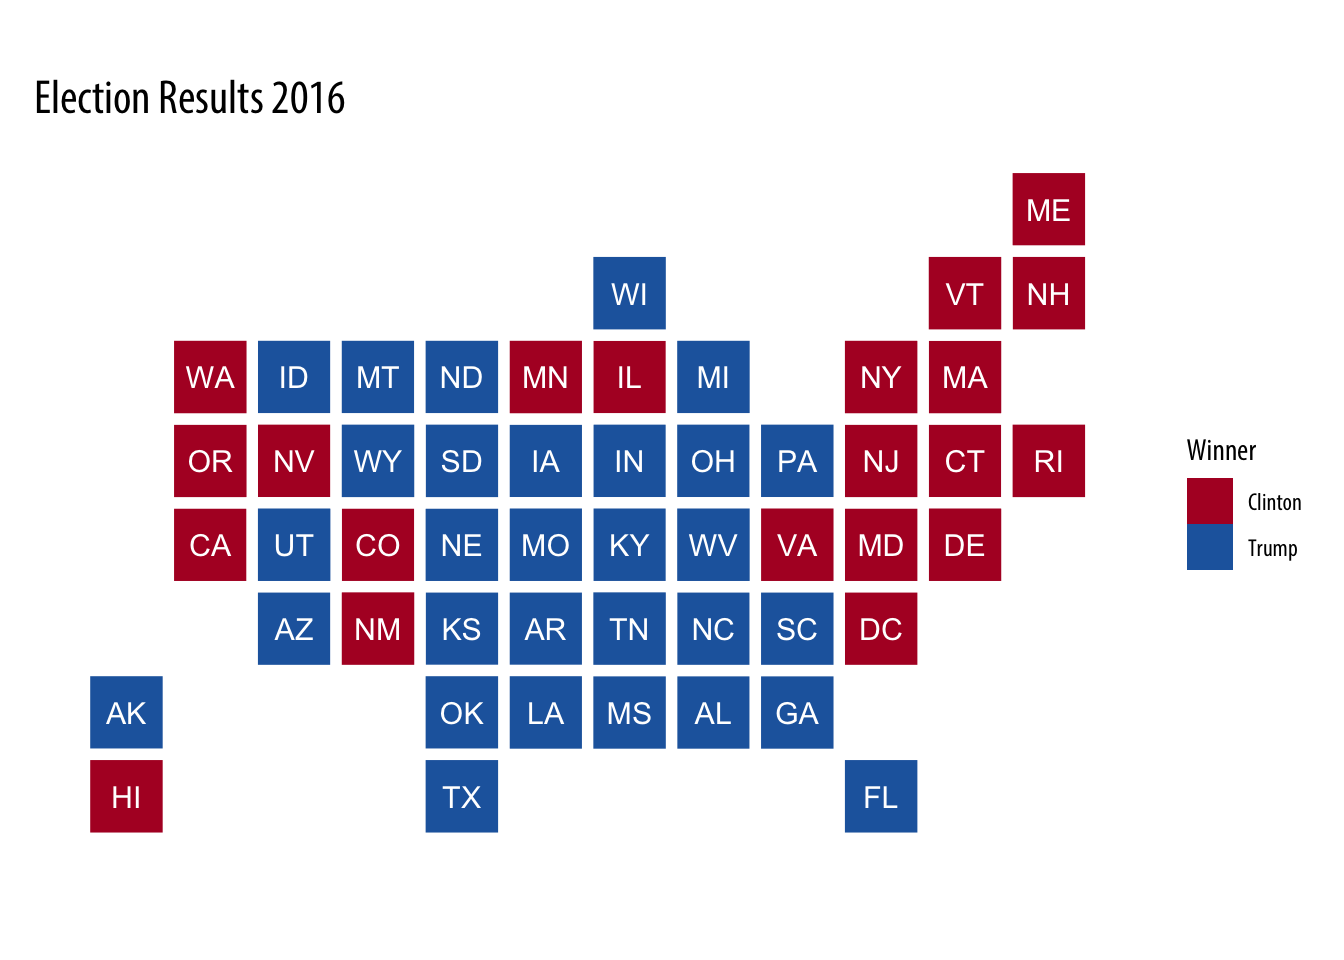
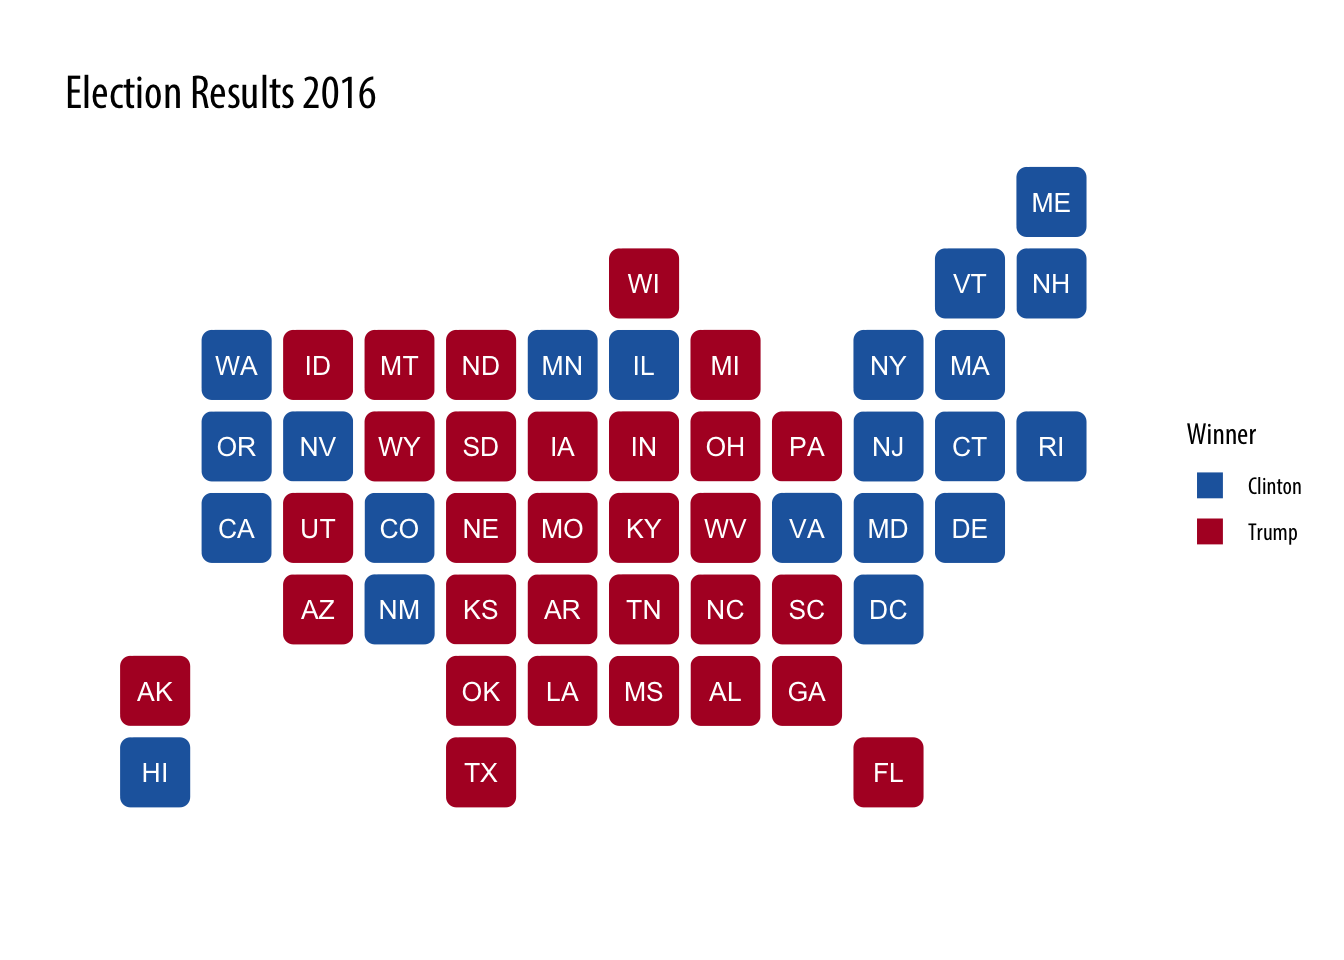
adding statebins

diff --git a/content/post/2019-11-14-mapping-in-r-ggplot.html b/content/post/2019-11-14-mapping-in-r-ggplot.html
@@ -33,6 +33,7 @@ output:
 <li><a href="#download-the-geojson-file">Download the geojson file</a></li>
 <li><a href="#grab-some-data-to-use-as-a-fill">Grab some data to use as a fill</a></li>
 </ul></li>
+<li><a href="#statebins">Statebins</a></li>
 <li><a href="#working-with-shape-files">Working with shape files</a></li>
 </ul>
 </div>
@@ -281,6 +282,27 @@ ggplot() + geom_map(data=us_map, map=us_map,
 <p><img src="/post/2019-11-14-mapping-in-r-ggplot_files/figure-html/unnamed-chunk-13-1.png" width="672" /></p>
 </div>
 </div>
+<div id="statebins" class="section level1">
+<h1>Statebins</h1>
+<p>Easy graphing with the package <code>statebins</code>, which are really clean.</p>
+<pre class="r"><code>library(statebins)
+elections_2016b &lt;- election_2016 %&gt;% 
+  mutate(color = ifelse(winner == &quot;Trump&quot;, &quot;red&quot;, &quot;blue&quot;))
+
+election_2016 %&gt;% mutate(value = winner) %&gt;%
+statebins(
+  font_size=3.5, dark_label = &quot;white&quot;, light_label = &quot;white&quot;,
+  ggplot2_scale_function = scale_fill_manual,
+  round=TRUE,
+  name = &quot;Winner&quot;,
+  values = c(Trump = &quot;#b2182b&quot;, Clinton = &quot;#2166ac&quot;)
+) +
+  theme_twg(grid = FALSE) +
+  theme(axis.text = element_blank()) + 
+  labs(title = &quot;Election Results 2016&quot;,
+       x = &quot;&quot;, y = &quot;&quot;)</code></pre>
+<p><img src="/post/2019-11-14-mapping-in-r-ggplot_files/figure-html/unnamed-chunk-14-1.png" width="672" /></p>
+</div>
 <div id="working-with-shape-files" class="section level1">
 <h1>Working with shape files</h1>
 <p>Just generally, how to import and work with shape files and <code>ggplot</code>…</p>
@@ -343,5 +365,5 @@ cong_df &lt;- merge(countyPoints, dataProjected@data, by = &quot;id&quot;)</code
        x = &quot;&quot;, y = &quot;&quot;) 
 
 gg_cong</code></pre>
-<p><img src="/post/2019-11-14-mapping-in-r-ggplot_files/figure-html/unnamed-chunk-16-1.png" width="672" /></p>
+<p><img src="/post/2019-11-14-mapping-in-r-ggplot_files/figure-html/unnamed-chunk-17-1.png" width="672" /></p>
 </div>
